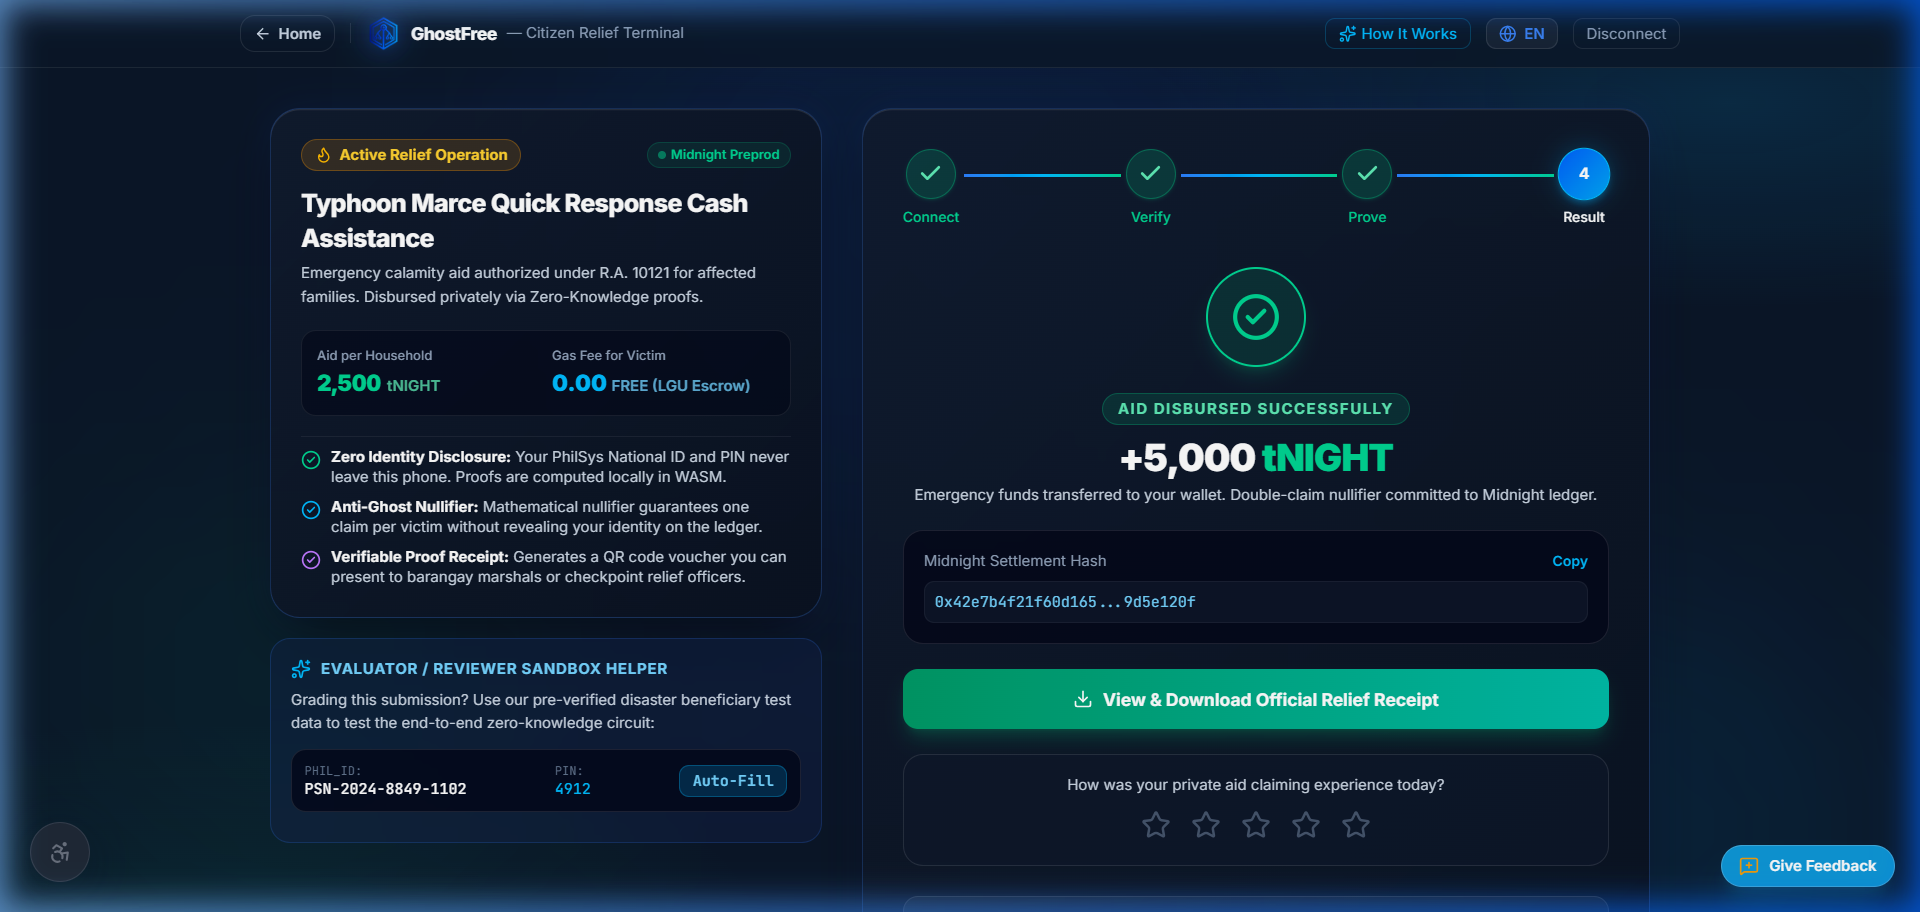
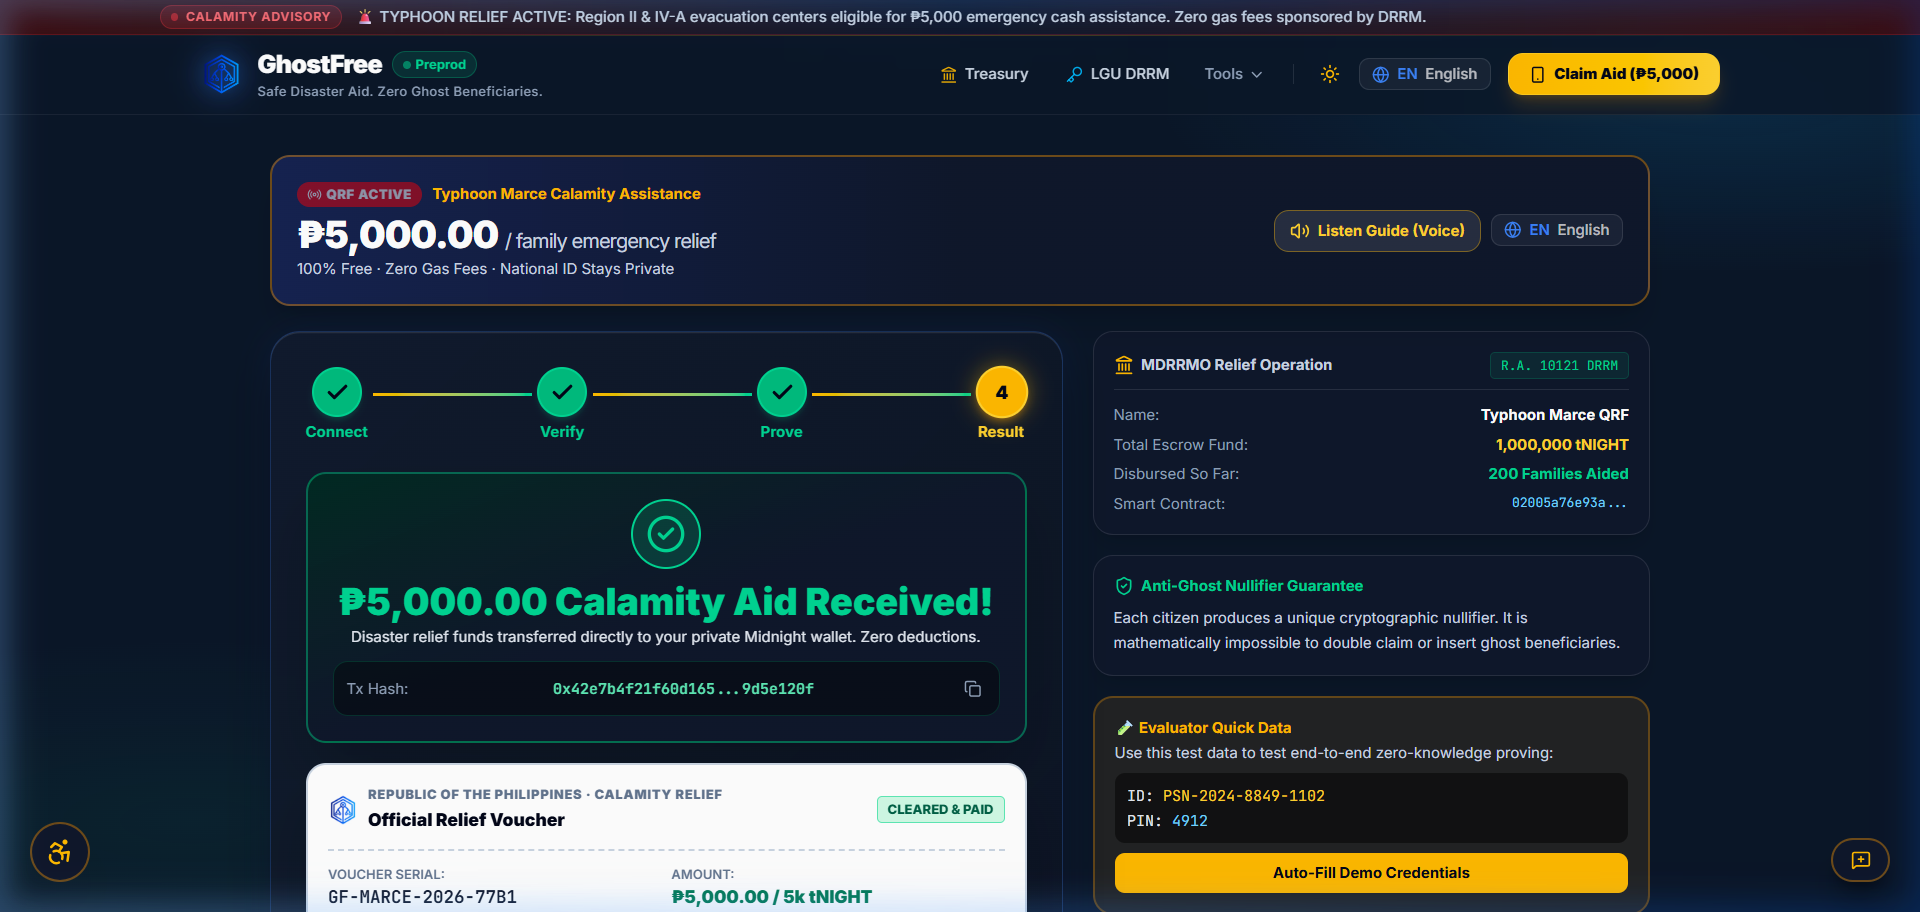
docs(readme): update UI screenshots and showcase to reflect 2D civic-tech redesign

diff --git a/src/views/claim/CitizenClaimPortal.tsx b/src/views/claim/CitizenClaimPortal.tsx
@@ -178,7 +178,7 @@ const IllustratedIdCard: React.FC<{
 // ---- Main Component ----
 export const CitizenClaimPortal: React.FC = () => {
   const navigate = useNavigate();
-  const { connected, address, connect, isSandbox } = useMidnightWallet();
+  const { connected, address, connect, connectSandbox, isSandbox } = useMidnightWallet();
   const { executeClaimAidCircuit, state: contractState } = useMidnightContract();
 
   // Navigation & Flow State
@@ -261,11 +261,11 @@ export const CitizenClaimPortal: React.FC = () => {
   };
 
   // Connect Evaluator Sandbox (1-Click)
-  const handleConnectSandbox = async () => {
+  const handleConnectSandbox = () => {
     setConnecting(true);
     setWalletError(null);
     try {
-      await connect("sandbox");
+      connectSandbox();
       setStep("credentials");
     } catch (err) {
       setWalletError(err instanceof Error ? err.message : "Failed to enter sandbox mode.");

diff --git a/README.md b/README.md
@@ -153,6 +153,18 @@ Fully public, trustless governance portal providing real-time oversight into rel
 
 ---
 
+### 7. 2D Bento Cryptographic Architecture & Anti-Ghost Matrix
+The landing page incorporates a structured 2D civic-tech feature matrix mapping how citizen privacy witnesses flow into local zero-knowledge proofs, nullifier registers, and immediate treasury release without disclosing personal identity records.
+
+![GhostFree 2D Bento Cryptographic Architecture](docs/screenshots/07-bento-cryptographic-matrix.png)
+
+- 🔒 **Linear ZK Proving Flow:** Step-by-step cryptographic pipeline from private witness inputs to local prover synthesis and on-chain verification.
+- 🛡 **Anti-Ghost Nullifier Rejection:** Mathematical visualization of how spent nullifier collision detection prevents fraudulent double-claiming.
+- 🏛 **Dual-Key Quorum Verification:** Cryptographic threshold checks between Local DRRM and Municipal Treasury officers.
+- 📊 **COA-Compliant Treasury Transparency:** Immutable ledger balance telemetry accessible to public auditors and citizens.
+
+---
+
 ## System Architecture
 
 ```mermaid
